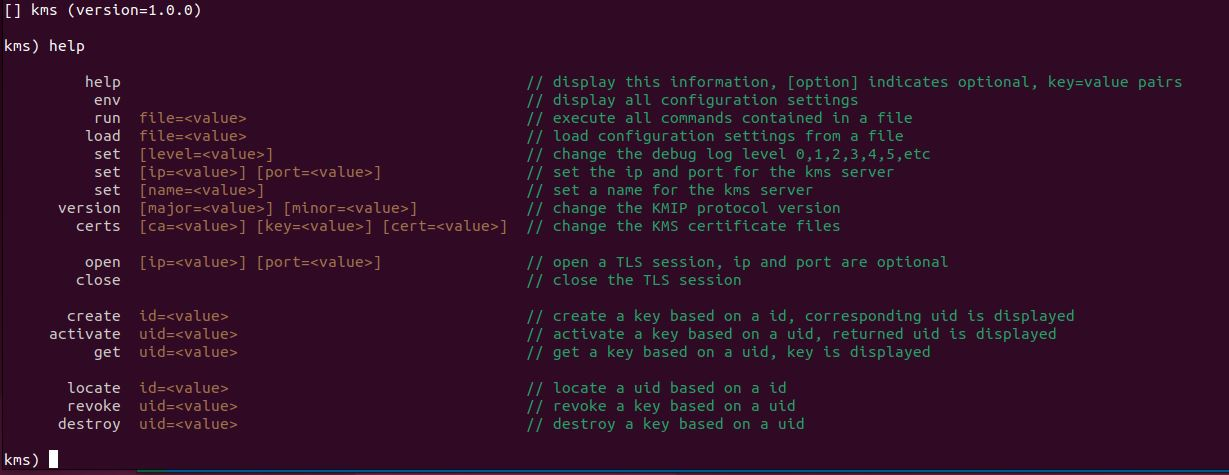
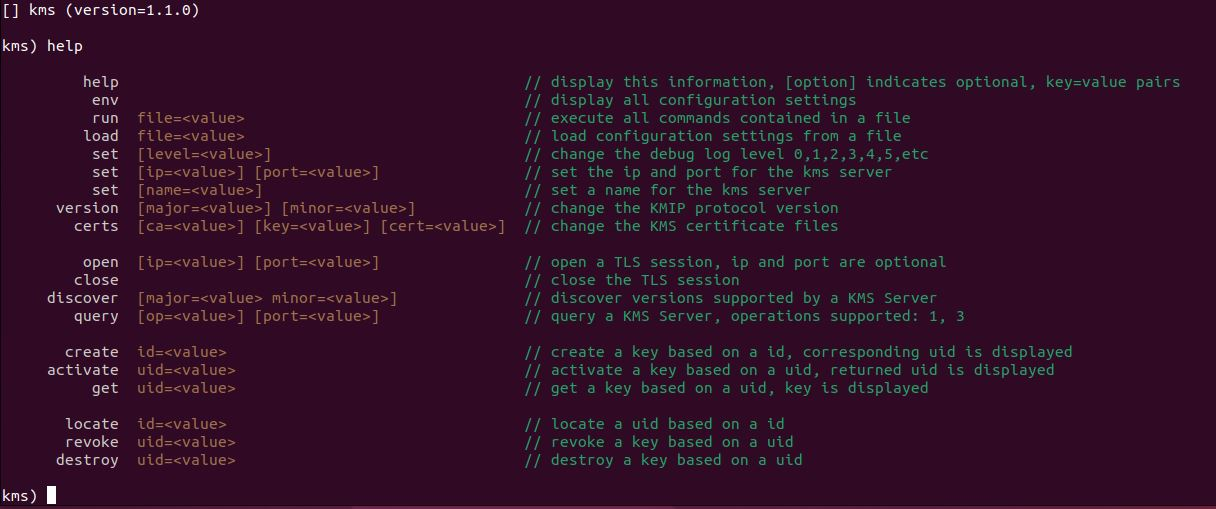
fix: locate corrections for KMIP 1.4

diff --git a/src/kmipapi/kmip14.go b/src/kmipapi/kmip14.go
@@ -131,7 +131,7 @@ func (kmips *kmip14service) CreateKey(ctx context.Context, settings *common.Conf
 
 	uid := respPayload.UniqueIdentifier
 	logger.V(4).Info("create key success", "uid", uid)
-	// common.Auditor().Log(common.Create, fmt.Sprintf("create key successful for id (%s) uid (%s)", req.Id, uid))
+
 	return &CreateKeyResponse{UniqueIdentifier: uid}, nil
 }
 
@@ -209,8 +209,6 @@ func (kmips *kmip14service) DestroyKey(ctx context.Context, settings *common.Con
 	uid := respPayload.UniqueIdentifier
 	logger.V(4).Info("XXX DestroyKey response payload", "uid", uid)
 
-	// common.Auditor().Log(common.Destroy, fmt.Sprintf("destroy key successful for uid (%s)", uid))
-
 	return &DestroyKeyResponse{UniqueIdentifier: uid}, nil
 }
 
@@ -237,8 +235,6 @@ func (kmips *kmip14service) ActivateKey(ctx context.Context, settings *common.Co
 
 	uid := respPayload.UniqueIdentifier
 	logger.V(4).Info("activate key success", "uid", uid)
-
-	// common.Auditor().Log(common.Activate, fmt.Sprintf("activate key successful for uid (%s)", uid))
 
 	return &ActivateKeyResponse{UniqueIdentifier: uid}, nil
 }
@@ -272,8 +268,6 @@ func (kmips *kmip14service) RevokeKey(ctx context.Context, settings *common.Conf
 	uid := respPayload.UniqueIdentifier
 	logger.V(4).Info("XXX RevokeKey response payload", "uid", uid)
 
-	// common.Auditor().Log(common.Revoke, fmt.Sprintf("revoke key successful for uid (%s)", uid))
-
 	return &RevokeKeyResponse{UniqueIdentifier: uid}, nil
 }
 
@@ -292,7 +286,7 @@ func (kmips *kmip14service) Locate(ctx context.Context, settings *common.Configu
 		NameType:  kmip14.NameTypeUninterpretedTextString,
 	}
 	payload := kmip.LocateRequestPayload{}
-	payload.Attributes = append(payload.Attributes, kmip.NewAttributeFromTag(kmip14.TagName, 0, Name))
+	payload.Attribute = append(payload.Attribute, kmip.NewAttributeFromTag(kmip14.TagName, 0, Name))
 
 	decoder, item, err := SendRequestMessage(ctx, settings, uint32(kmip14.OperationLocate), &payload)
 	if err != nil {
@@ -311,7 +305,6 @@ func (kmips *kmip14service) Locate(ctx context.Context, settings *common.Configu
 	uid := respPayload.UniqueIdentifier
 	logger.V(4).Info("XXX Locate response payload", "uid", respPayload.UniqueIdentifier)
 
-	// common.Auditor().Log(common.Locate, fmt.Sprintf("uid=%s", uid))
 	return &LocateResponse{UniqueIdentifier: uid}, nil
 }
 
@@ -343,8 +336,6 @@ func (kmips *kmip14service) ReKey(ctx context.Context, settings *common.Configur
 
 	uid := respPayload.UniqueIdentifier
 	logger.V(4).Info("xxx ReKey Response Payload", "uid", uid)
-
-	// common.Auditor().Log(common.ReKey, fmt.Sprintf("uid=%s", req.UniqueIdentifier))
 
 	return &ReKeyResponse{UniqueIdentifier: uid}, nil
 }

diff --git a/src/kmipapi/kmip20.go b/src/kmipapi/kmip20.go
@@ -337,7 +337,6 @@ func (kmips *kmip20service) Locate(ctx context.Context, settings *common.Configu
 	uid := respPayload.UniqueIdentifier
 	logger.V(4).Info("XXX Locate response payload", "uid", respPayload.UniqueIdentifier)
 
-	// common.Auditor().Log(common.Locate, fmt.Sprintf("uid=%s", uid))
 	return &LocateResponse{UniqueIdentifier: uid}, nil
 }
 
@@ -370,8 +369,6 @@ func (kmips *kmip20service) SetAttribute(ctx context.Context, settings *common.C
 	}
 
 	logger.V(4).Info("XXX SetAttribute response payload", "uid", respPayload.UniqueIdentifier)
-
-	// common.Auditor().Log(common.SetAttribute, fmt.Sprintf("id=%s DriveSN=%s", req.UniqueIdentifier, req.AttributeValue))
 
 	return &SetAttributeResponse{}, nil
 }
@@ -406,8 +403,6 @@ func (kmips *kmip20service) ReKey(ctx context.Context, settings *common.Configur
 
 	uid := respPayload.UniqueIdentifier
 	logger.V(4).Info("xxx ReKey Response Payload", "uid", uid)
-
-	// common.Auditor().Log(common.ReKey, fmt.Sprintf("uid=%s", req.UniqueIdentifier))
 
 	return &ReKeyResponse{UniqueIdentifier: uid}, nil
 }

diff --git a/op_locate.go b/op_locate.go
@@ -2,8 +2,6 @@ package kmip
 
 import (
 	"context"
-
-	"github.com/Seagate/kmip-go/kmip14"
 )
 
 // 4.9 Locate
@@ -11,11 +9,11 @@ import (
 // Table 190
 
 type LocateRequestPayload struct {
-	MaximumItems      uint32                   // Required: No
-	OffsetItems       uint32                   // Required: No
-	StorageStatusMask kmip14.StorageStatusMask // Required: No
-	ObjectGroupMember kmip14.ObjectGroupMember // Required: No
-	Attributes        []Attribute              // Required: No
+	// MaximumItems      uint32                   // Required: No
+	// OffsetItems       uint32                   // Required: No
+	// StorageStatusMask kmip14.StorageStatusMask // Required: No
+	// ObjectGroupMember kmip14.ObjectGroupMember // Required: No
+	Attribute []Attribute // Required: No
 }
 
 // Table 191

diff --git a/cmd/kms/main.go b/cmd/kms/main.go
@@ -13,7 +13,7 @@ import (
 	"k8s.io/klog/v2"
 )
 
-const version string = "1.1.0"
+const version string = "1.1.1"
 
 // init: called once during program execution
 func init() {

diff --git a/cmd/kms/README.md b/cmd/kms/README.md
@@ -5,16 +5,16 @@
 ## Introduction
 
 ***kms*** is a command line tool to connect to a KMS Server and execute KMIP operations. This is an interactive tool
-providing feedback both as console output as well ad multi-level logging using structured and contextual logging.
+providing feedback both as console output as well as multi-level logging using structured and contextual logging.
 
 This tool provides:
 - support for KMIP 1.4 and 2.0 versions
-- variable configuration settings
+- dynamic configuration settings
 - loading and storing json-file-based configuration settings
 - executing open and close KMS server sessions
 - executing create, activate, get, locate, revoke, and destroy key operations
 - running a script file
-- dynamic multi-level logging
+- multi-level logging adjustable from the prompt
 
 ## Table of Contents
 * [(1) building kms](#section1)
@@ -30,10 +30,10 @@ This tool provides:
 | :-------- | :--------| :---------------------------------------------------------------------- |
 | 1.0.0     | Released | First release |
 | 1.1.0     | Released | Add Discover and Query |
-| 1.2.0     |          | Add ReKey |
-| 1.3.0     |          | Handle command history, up arrow down arrow, back arrow, and forward arrow |
+| 1.2.0     |          | Add Re-key |
+| 1.3.0     |          | Handle command history, up arrow, down arrow, back arrow, and forward arrow |
 | 1.4.0     |          | Add Register |
-| 1.5.0     |          | Add SetAttribute |
+| 1.5.0     |          | Add Set Attribute |
 
 [//]: <> (================================================================================================================================================================)
 ## <a name="section1">(1) building kms</a>
@@ -75,7 +75,7 @@ install ./kms /usr/local/bin
 [//]: <> (================================================================================================================================================================)
 
 It is suggested to run `kms` from a location where you can store configuration files that point to various KMS servers. Run `sudo make install` to add the executable
-to your go path. For example, the following table describes a set of potential configuration files for a few KMS servers. Use the `kms) load file=<value>` option to load
+to your path. For example, the following table describes a set of potential configuration files for a few KMS servers. Use the `kms) load file=<value>` option to load
 those configuration settings. Once a session is opened, use `kms) help` to list commands and perform key operations.
 
 | File               | Description                                                          |
@@ -86,8 +86,8 @@ those configuration settings. Once a session is opened, use `kms) help` to list 
 
 ### Sample KMS Configuration File
 
-The parameters that should be filled in for a KMS server are listed below. This can be done using the `kms)` tool listed in the **kms server** section.
-After you are happy with your settings, you can copy the default **kms.json** file to your file to save, such as **kms-pykmip.json**.
+The parameters that should be filled in for a KMS server are listed below. This can be done using the `kms)` tool and commands listed in the **kms server** section.
+After you are happy with your settings, you can copy the default **kms.json** file to a file that you wish to save, such as **kms-pykmip.json**.
 
 - kms_server_name
 - kms_server_ip
@@ -307,27 +307,28 @@ Debugging is accomplished by turning up the logging level. Use `kms) set level=<
 The `kms` tool is built using a fairly straightforward design. The main program uses handlers to link command line strings to functions. Each single word command is
 linked to a function. The main user interface is in the handlers, which is expected to print text to the console so the user can view results.
 
-At the a lower level of the design is the KMIP API, which has a high level interface with instantiations for KMIP 1.4 and KMIP 2.0 commands. More versions can be added withoput changing.
-The `kms` use sets the KMIP protocol version using ``version major=<value? minor=<value>` which in turns sets a string to kmip14 or kmip20 and is used to retrieve the correct
-instantiation of the interface based on version. Each version of the KMIP commands are stored in separate files: kmip14.go and kmip20.go. At this level, the design is to only
+At the a lower level of the design is the KMIP API, which has a high level interface with instantiations for KMIP 1.4 and KMIP 2.0 commands. More versions can be added
+with changes isolated to a few KMIP API files. The `kms` tool executes KMIP commands using the user specified KMIP protocol version which is set using 
+`version major=<value> minor=<value>`. This in turns sets a string to **kmip14** or **kmip20** and is used to retrieve the correct instantiation of the interface based
+on the specified version. Each version of the KMIP commands are stored in separate files: kmip14.go and kmip20.go. At this level, the design is to only
 return errors and let the higher level user interface print messages. Logging is implemented at this level to add additional debug when the level is 2 or greater.
 
 `cmd/kms/main.go`:
 - The main program.
   - Initializes and processes flags and creates a context.
   - Initializes a map of function pointers called handlers.
-  - Reads `kms.json` if it exists and stores all configuration settings changes to this file.
-  - Creates a `kms)` prompt and scans user input.
-  - For each command entered after the `kms) ` prompt, the handlers.Execute() is called passing in the context, settings, and the input text line.
+  - Reads `kms.json` if it exists and stores all configuration setting changes to this file.
+  - Creates a `kms) ` prompt and scans user input.
+  - For each command entered after the `kms) ` prompt, the **handlers.Execute()** is called passing in context, settings, and the input text line.
 
 `src/common`:
-- `config.go` to **Store** and **Restore** the configuration settings file, writes and reads JSON data to and from a file.
+- `config.go` to **Store** and **Restore** the configuration settings file - writes and reads JSON data to and from a file.
 - `parsers.go` to handle parsing **key=value** pairs from the command line string entered by a user.
 - `types.go` to declare common types such as **ConfigurationSettings**.
 
 `src/handlers`:
-- The `handlers.go` file initializes a map of function pointers. All functions must take the same arguments.
-- Update `g_handlers` to add a new row which with a command string and function pointer.
+- The `handlers.go` file initializes a map of function pointers. All functions must take the same list and types of parameters.
+- Update `g_handlers` to add a new row with a command string and function pointer.
 - The `Execute()` function does not require changes, only the map.
 - `env.go` to execute environmental or configuration settings commands.
 - `help.go` to display help for commands. This needs to be updated when a new command is added.

diff --git a/cmd/kms/CHANGELOG.md b/cmd/kms/CHANGELOG.md
@@ -1,3 +1,10 @@
+# [1.1.1] (2022-09-12)
+
+### Fix
+
+- Locate Request/Response corrections for KMIP 1.4
+- README corrections
+
 # [1.1.0] (2022-09-12)
 
 ### Features
